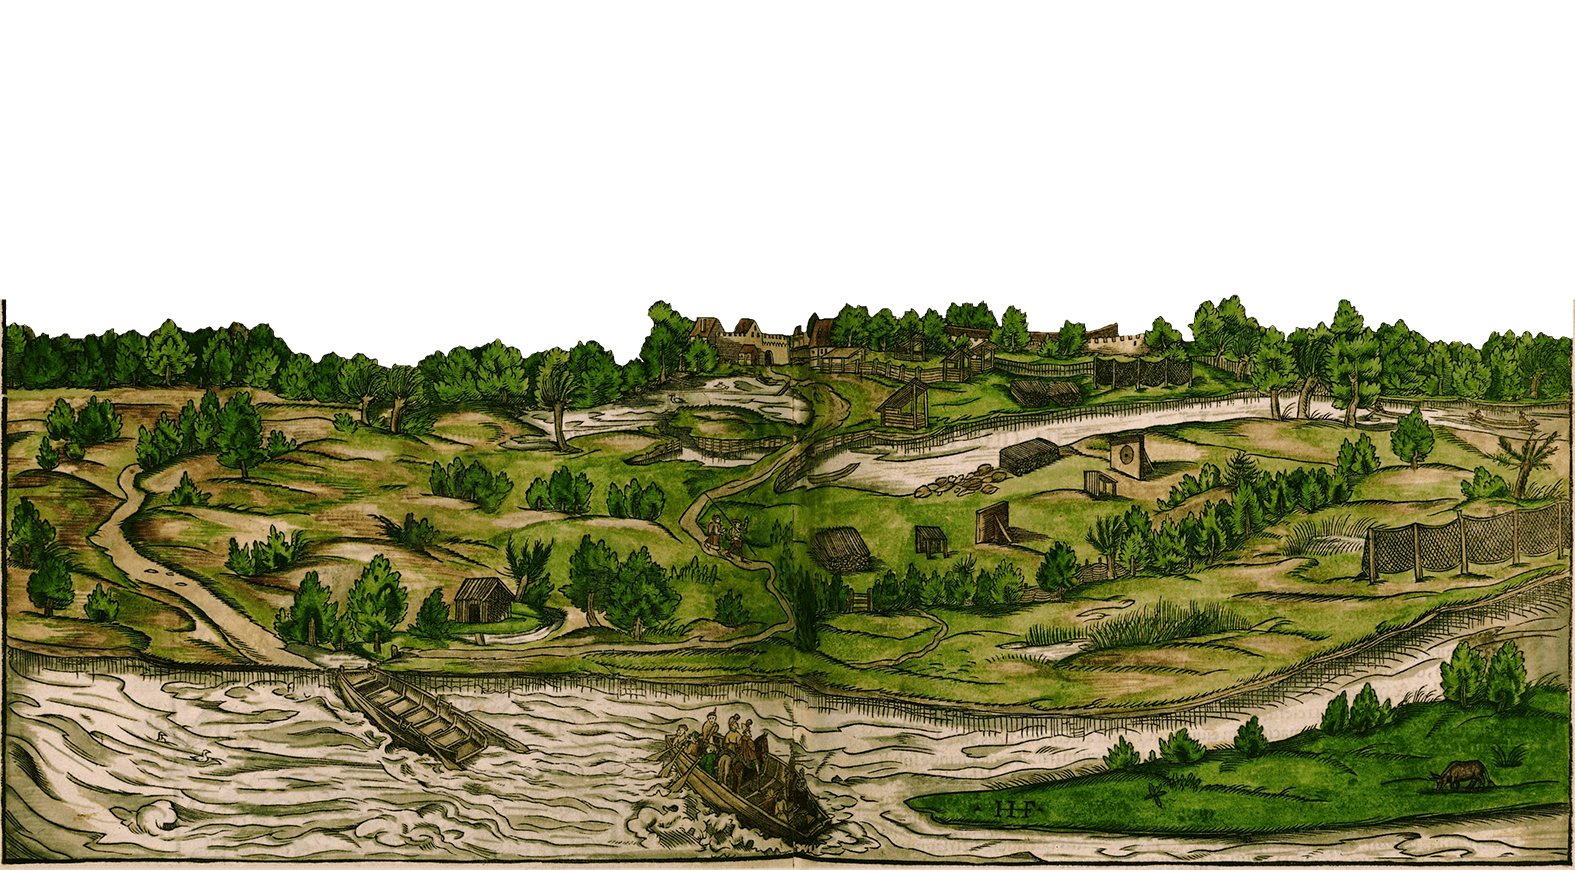
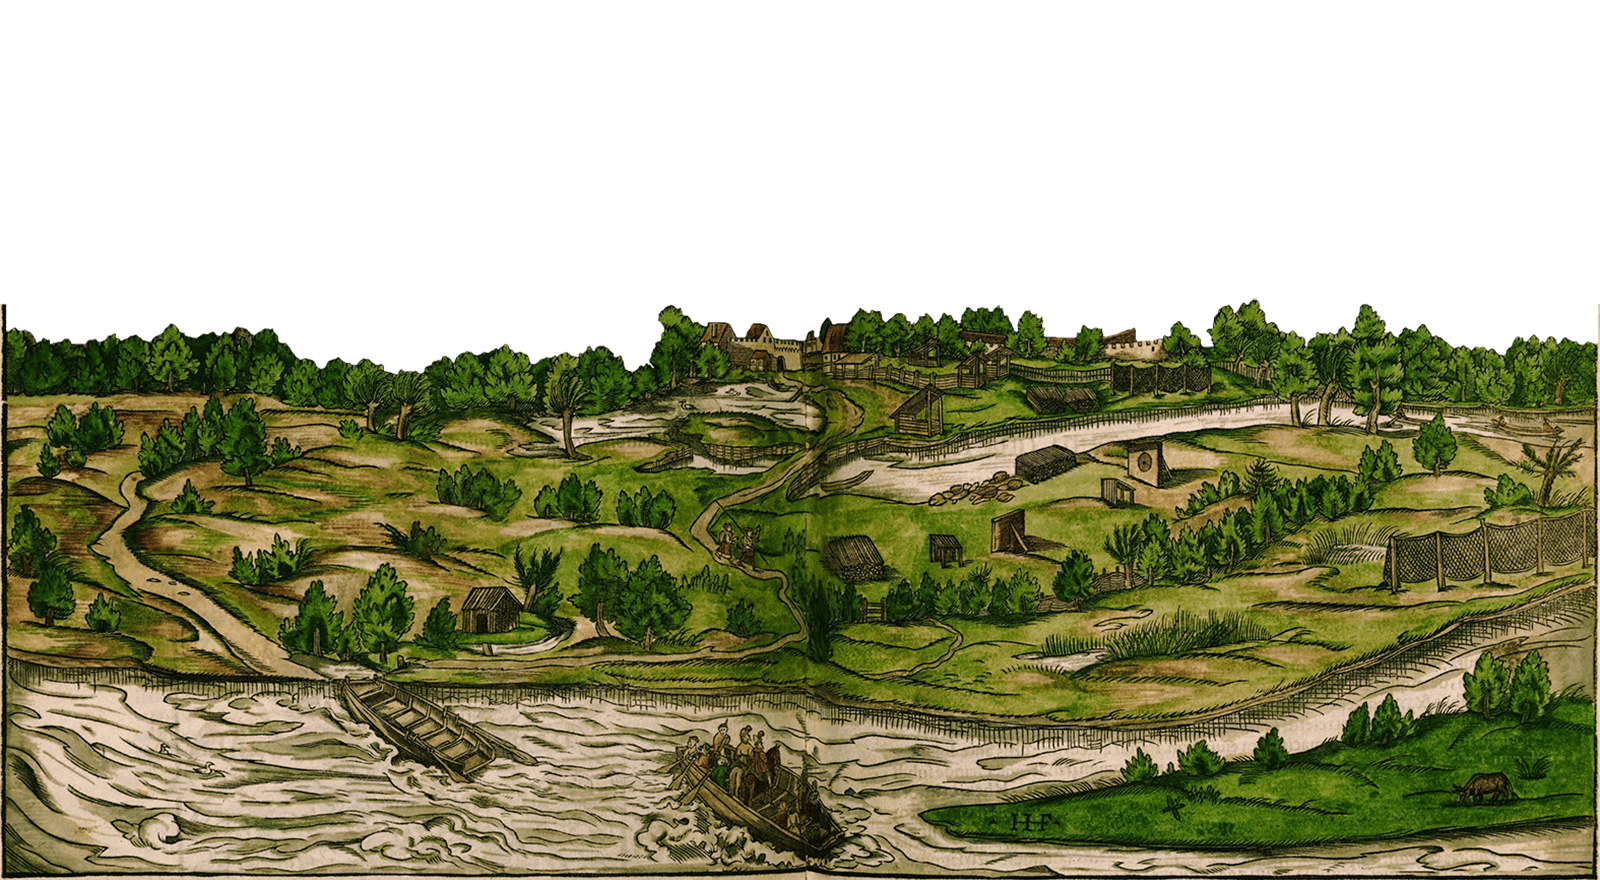
let there be more correct light

diff --git a/town.js b/town.js
@@ -2,44 +2,13 @@
 import { Building } from './building.js';
 import { randomInt, random } from './util.js';
 
-const stars = [
-  32, 40,
-  28, 78,
-  36, 128,
-  42, 184,
-  38, 232,
-  80, 244,
-  50, 270,
-  138, 280,
-  266, 294,
-  450, 290,
-  458, 234,
-  322, 244,
-  292, 174,
-  208, 184,
-  186, 140,
-  144, 84,
-  190, 54,
-  244, 46,
-  254, 84,
-  236, 104,
-  538, 118,
-  532, 222,
-  540, 270,
-  502, 290,
-  400, 272,
-  372, 222,
-  330, 78,
-  370, 44,
-  452, 42,
-  532, 30,
-  564, 28,
-  584, 164,
-  240, 212
-];
+const SceneWidth = 1600;
+const SceneHeight = 880;
+const Stars = [];
+for (let i = 0; i < 50; i++) { Stars.push(Math.random() * 1600);  Stars.push(Math.random() * 400) };
 
 export class Town {
-  constructor(canvas) {
+  constructor(canvas, skyCanvas) {
     // eslint-disable-next-line no-param-reassign
     canvas.onselectstart = function () { return false; };
     const arr = [];
@@ -58,12 +27,21 @@ export class Town {
     this.dragStartObjectX = 0;
     this.dragStartObjectY = 0;
 
-    this.skyColor = 'hsla(199, 100%, 75%, 1)';
-    this.foreColor = '#e2d8ce'; // ehhhh lame paper color
+    // sky, sun, foreground
+    this.skyCtx = skyCanvas.getContext('2d');
     this.skylineY = this.canvas.height / 2;
+    const skyImage = new Image();
+    skyImage.src = 'images/sky.jpg';
+    this.sky = { x: 0, y: 0, width: SceneWidth, height: 400, img: skyImage };
     const sunImage = new Image();
     sunImage.src = 'images/sun.png';
     this.sun = { x: 350, y: 50, width: 150, height: 150, img: sunImage };
+    this.foreColor = '#e2d8ce'; // ehhhh lame paper color
+    const foreImage = new Image();
+    foreImage.src = 'images/foreground.png';
+    this.foreground = { x: 0, y: 0, width: SceneWidth, height: SceneHeight, img: foreImage };
+
+
 
     const self = this;
     canvas.addEventListener('mousedown', function (e) {
@@ -165,7 +143,7 @@ export class Town {
 
   draw() {
     const {
-      buildings, ctx, canvas, selection, sun, skylineY
+      buildings, ctx, canvas, selection, skylineY, sky, sun, foreground, skyCtx
     } = this; // wow. much destructure.
     ctx.clearRect(0, 0, canvas.width, canvas.height);
     const sunMid = (sun.y + (sun.height / 2));
@@ -174,11 +152,17 @@ export class Town {
     const luminosity = 75 - (50 * darkness);
 
     // Sky
-    ctx.fillStyle = `hsla(203, 100%, ${luminosity}%, 1)`;
-    ctx.fillRect(0, 0, canvas.width, skylineY);
+    skyCtx.drawImage(sky.img, sky.x, sky.y, sky.width, sky.height);
     ctx.drawImage(sun.img, sun.x, sun.y, sun.width, sun.height);
-    ctx.fillStyle = this.foreColor;
-    ctx.fillRect(0, skylineY, canvas.width, canvas.height - skylineY);
+    skyCtx.fillStyle = `rgba(0, 0, 0, ${Math.min(0.9, (darkness / 1.5).toFixed(2))})`;
+    skyCtx.fillRect(0, 0, canvas.width, canvas.height);
+    // Stars
+    skyCtx.globalAlpha = darkness;
+    for (let i = 0; i < Stars.length; i += 2) {
+      skyCtx.fillStyle = 'white';
+      skyCtx.fillRect(Stars[i], Stars[i + 1], 2, 2);
+    }
+    skyCtx.globalAlpha = 1;
 
     // Buildings
     const l = buildings.length;
@@ -186,18 +170,14 @@ export class Town {
       buildings[i].draw(ctx);
     }
 
+    // Foreground
+    ctx.drawImage(foreground.img, foreground.x, foreground.y, foreground.width, foreground.height);
+
     // Darkness
+    ctx.globalCompositeOperation = 'source-atop';
     ctx.fillStyle = `rgba(0, 0, 0, ${Math.min(0.9, darkness.toFixed(2))})`;
     ctx.fillRect(0, 0, canvas.width, canvas.height);
-
-    // Stars
-    ctx.globalAlpha = darkness;
-    for (let i = 0; i < stars.length; i += 2) {
-      ctx.fillStyle = 'white';
-      ctx.fillRect(stars[i], stars[i + 1], 2, 2);
-    }
-    ctx.globalAlpha = 1;
-
+    ctx.globalCompositeOperation = 'source-over';
 
     if (selection) {
       ctx.strokeStyle = 'lime';

diff --git a/main.js b/main.js
@@ -1,7 +1,6 @@
 import { Town } from './town.js';
 
-const can = document.getElementById('can');
-const ctx = can.getContext('2d');
+
 
 
 CanvasRenderingContext2D.prototype.lineToRand = function (x, y) {
@@ -26,16 +25,18 @@ CanvasRenderingContext2D.prototype.quadraticCurveToRand = function (x1, y1, x2, 
 };
 
 
-ctx.miterLimit = 3;
-ctx.lineWidth = 1.5;
-
 let globalWidth = 70;
 let globalHeight = 25 + 32;
 let globalWidthFraction = 0.5;
 let globalHeightFraction = 0.5;
 let town;
 function main() {
-  town = new Town(can);
+  const can = document.getElementById('town');
+  const ctx = can.getContext('2d');
+  ctx.miterLimit = 3;
+  ctx.lineWidth = 1.5;
+  const sky = document.getElementById('sky');
+  town = new Town(can, sky);
   town.draw();
   window.town = town;
 }

diff --git a/index.html b/index.html
@@ -1,4 +1,16 @@
-<canvas width="600" height="600" style="width: 300px; height: 300px; background-color: #e2d8ce;" id="can"></canvas>
+
+<style>
+  .town {
+    width: 800px;
+    height: 440px;
+    position: absolute;
+  }
+</style>
+
+<div>
+  <canvas width="1600" height="880"class="town" id="sky"></canvas>
+  <canvas width="1600" height="880"class="town" id="town"></canvas>
+</div>
 <p>Width <input id="widthSlider" type="range" min="10" max="200" value="50"></p>
 <p>Height <input id="heightSlider" type="range" min="10" max="200" value="50"></p>
 <p>Width fraction <input id="widthFractionSlider" type="range" step="0.01" min="0.01" max="1" value="0.5"></p>

diff --git a/captainslog.md b/captainslog.md
@@ -1,4 +1,16 @@
 
+### Captain's log, Mar 3, 2020
+
+Now working with images for sky and foreground.
+
+Sky is parted out into its own layer (boo) but now z ordering and independent sky darkening (less dark) works (yay).
+
+gotta get a moon and put it on a pulley with the sun.
+
+I'm thinking of paying someone to make the graphics? It will probably take me forever if I try to do it. But then it will be harder to adapt and change it later.
+
+ss
+
 ### Captain's log, Feb 28, 2020
 
 Lots new: Bezier easing animated building! Sun! Dragging the sun! Stars (that shine through buildings). Darkness! We're at like 3-4 days of gods own creation rn.
